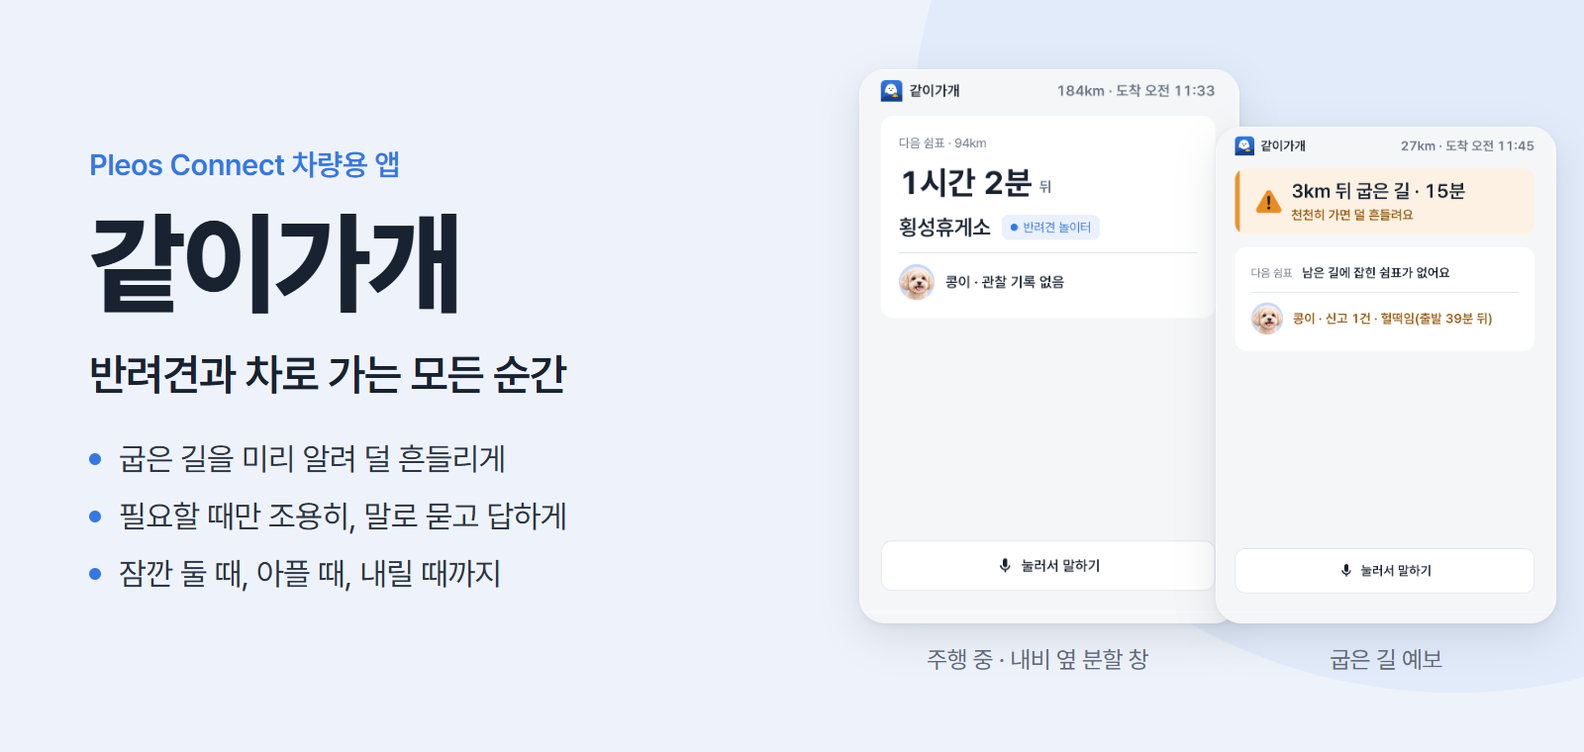
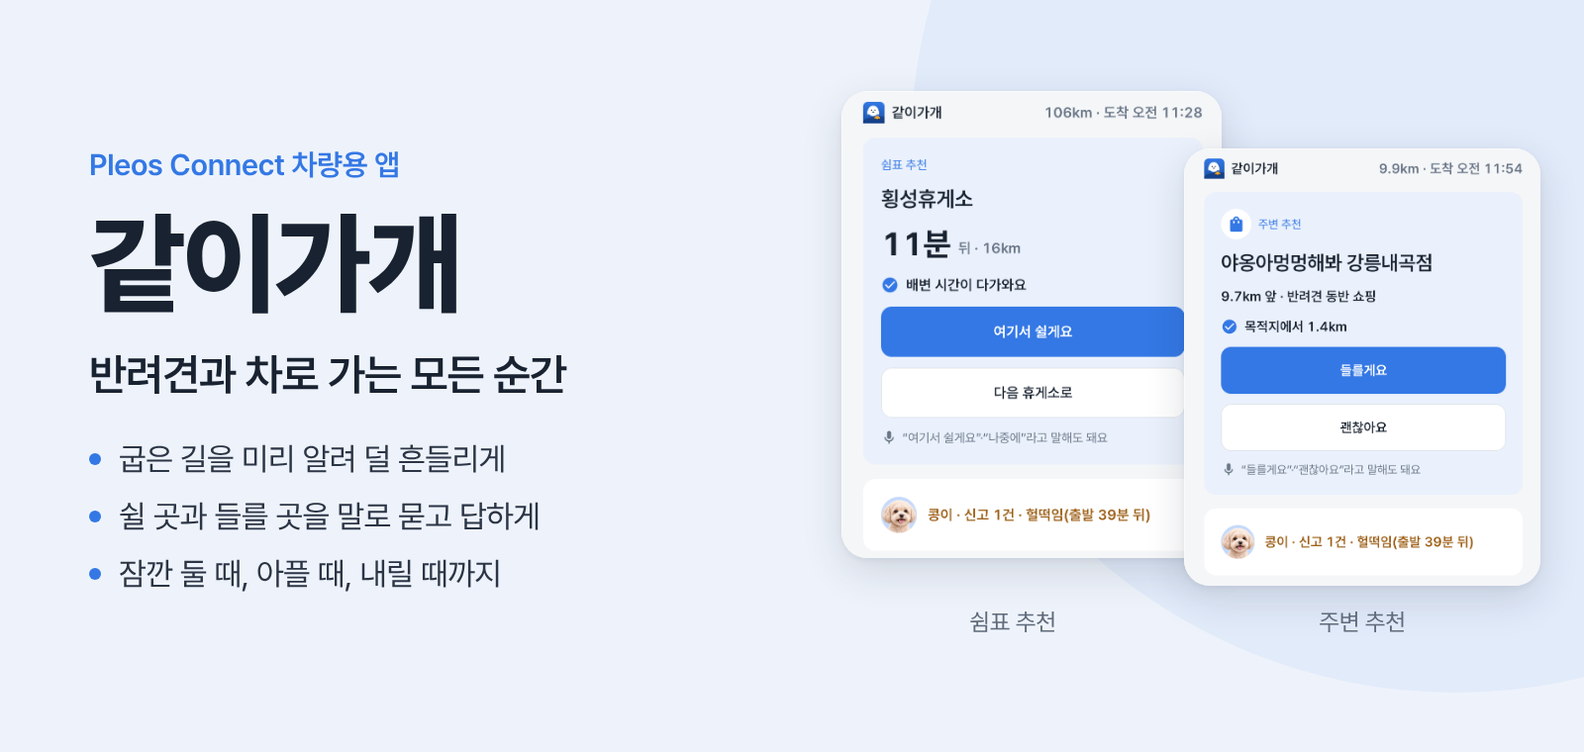
녹화 순서와 진행 기록 정리

diff --git a/scripts/make_banner.py b/scripts/make_banner.py
@@ -1,16 +1,15 @@
 """README 대표 이미지 docs/readme/banner.png 다시 만들기 (2026-11-05).
 
-    server\\.venv\\Scripts\\python scripts/make_banner.py          # docs/readme/drive.png·forecast.png → banner.png
+    server\\.venv\\Scripts\\python scripts/make_banner.py          # docs/readme/suggest.png·nearby.png → banner.png
 
 - 1600×760, 배경 #EEF3FB, 오른쪽 위 연한 원 #E2EBFA, 왼쪽 글(Pretendard, app-android/app/src/main/res/font/),
-  오른쪽에 두 화면(둥근 모서리·옅은 그림자)을 겹쳐 놓고 아래 캡션.
-- 그림 도구(Pillow)를 새로 설치하지 않으려고 HTML을 Playwright(설치된 Chrome)로 찍는다 — Playwright는 server/.venv에 있다.
+  오른쪽에 쉼표 추천과 주변 추천 두 화면(둥근 모서리·옅은 그림자)을 나란히 놓고 아래 캡션.
+- 그림 도구(Pillow)를 새로 설치하지 않으려고 HTML을 Playwright로 찍는다 — Playwright는 server/.venv에 있다.
 - 결과 PNG에는 텍스트·출처 메타데이터 청크를 남기지 않는다(IHDR·IDAT·IEND 등 그림 청크만 다시 쓴다).
 """
 import struct
 import sys
 import tempfile
-import zlib
 from pathlib import Path
 
 ROOT = Path(__file__).resolve().parents[1]
@@ -19,9 +18,9 @@ SRC = ROOT / "docs" / "readme"
 OUT = SRC / "banner.png"
 W, H = 1600, 760
 
-# 화면 두 장: 화면 위쪽만 보여 준다(분할 창 폭 기준 비율). (left, top, width, 보이는 높이)
-DRIVE = (868, 70, 384, 560)
-FORECAST = (1228, 128, 344, 502)
+# 화면 두 장: 카드가 있는 위쪽만 보여 준다(원본 847×1210 중 위 1040px). (left, top, width, 보이는 높이)
+FIRST = (790, 92, 384, 472)    # suggest.png
+SECOND = (1196, 150, 360, 442)  # nearby.png
 
 HTML = """<!doctype html><html><head><meta charset="utf-8"><style>
 @font-face {{ font-family: P; font-weight: 400; src: url('{f}/pretendard_regular.otf'); }}
@@ -37,7 +36,7 @@ ul {{ list-style: none; padding: 0; margin: 40px 0 0 0; }}
 li {{ font-size: 32px; font-weight: 400; color: #2B3545; letter-spacing: -0.5px; margin-bottom: 20px; display: flex; align-items: center; }}
 li::before {{ content: ""; width: 12px; height: 12px; border-radius: 50%; background: #3478E5; margin-right: 18px; flex: none; }}
 .shot {{ position: absolute; border-radius: 26px; overflow: hidden; background: #F5F6F8;
-         box-shadow: 0 14px 40px rgba(24, 34, 48, 0.12), 0 2px 6px rgba(24, 34, 48, 0.06); }}
+         box-shadow: 0 14px 40px rgba(24, 34, 48, 0.14), 0 2px 6px rgba(24, 34, 48, 0.06); }}
 .shot img {{ display: block; width: 100%; }}
 .cap {{ position: absolute; font-size: 24px; font-weight: 400; color: #5F6B7B; text-align: center; letter-spacing: -0.3px; }}
 </style></head><body>
@@ -46,12 +45,12 @@ li::before {{ content: ""; width: 12px; height: 12px; border-radius: 50%; backgr
   <div class="kicker">Pleos Connect 차량용 앱</div>
   <div class="name">같이가개</div>
   <div class="sub">반려견과 차로 가는 모든 순간</div>
-  <ul><li>굽은 길을 미리 알려 덜 흔들리게</li><li>필요할 때만 조용히, 말로 묻고 답하게</li><li>잠깐 둘 때, 아플 때, 내릴 때까지</li></ul>
+  <ul><li>굽은 길을 미리 알려 덜 흔들리게</li><li>쉴 곳과 들를 곳을 말로 묻고 답하게</li><li>잠깐 둘 때, 아플 때, 내릴 때까지</li></ul>
 </div>
-<div class="shot" style="left:{d[0]}px; top:{d[1]}px; width:{d[2]}px; height:{d[3]}px"><img src="{drive}"></div>
-<div class="shot" style="left:{c[0]}px; top:{c[1]}px; width:{c[2]}px; height:{c[3]}px"><img src="{forecast}"></div>
-<div class="cap" style="left:{d[0]}px; width:{dcap}px; top:{capy}px">주행 중 · 내비 옆 분할 창</div>
-<div class="cap" style="left:{c[0]}px; width:{c[2]}px; top:{capy}px">굽은 길 예보</div>
+<div class="shot" style="left:{a[0]}px; top:{a[1]}px; width:{a[2]}px; height:{a[3]}px"><img src="{first}"></div>
+<div class="shot" style="left:{b[0]}px; top:{b[1]}px; width:{b[2]}px; height:{b[3]}px"><img src="{second}"></div>
+<div class="cap" style="left:{a[0]}px; width:{acap}px; top:{capy}px">쉼표 추천</div>
+<div class="cap" style="left:{b[0]}px; width:{b[2]}px; top:{capy}px">주변 추천</div>
 </body></html>"""
 
 
@@ -77,18 +76,23 @@ def main() -> int:
     if len(sys.argv) > 2 and sys.argv[1] == "--out":  # 시험용: 다른 곳에 쓰기
         OUT = Path(sys.argv[2])
 
-    for p in (SRC / "drive.png", SRC / "forecast.png"):
+    first, second = SRC / "suggest.png", SRC / "nearby.png"
+    for p in (first, second):
         if not p.exists():
             print(f"없음: {p}")
             return 2
-    html = HTML.format(f=FONT.as_uri(), W=W, H=H, d=DRIVE, c=FORECAST, dcap=FORECAST[0] - DRIVE[0],
-                       capy=max(DRIVE[1] + DRIVE[3], FORECAST[1] + FORECAST[3]) + 22,
-                       drive=(SRC / "drive.png").as_uri(), forecast=(SRC / "forecast.png").as_uri())
+    html = HTML.format(f=FONT.as_uri(), W=W, H=H, a=FIRST, b=SECOND, acap=SECOND[0] - FIRST[0],
+                       capy=max(FIRST[1] + FIRST[3], SECOND[1] + SECOND[3]) + 22,
+                       first=first.as_uri(), second=second.as_uri())
     with tempfile.TemporaryDirectory() as tmp:
         page_file = Path(tmp) / "banner.html"
         page_file.write_text(html, encoding="utf-8")
         with sync_playwright() as pw:
-            b = pw.chromium.launch(channel="chrome", args=["--allow-file-access-from-files"])
+            args = ["--allow-file-access-from-files"]
+            try:
+                b = pw.chromium.launch(channel="chrome", args=args)
+            except Exception:
+                b = pw.chromium.launch(args=args)
             pg = b.new_page(viewport={"width": W, "height": H}, device_scale_factor=1)
             pg.goto(page_file.as_uri())
             pg.evaluate("document.fonts.ready")

diff --git a/scripts/record_scenes.py b/scripts/record_scenes.py
@@ -180,7 +180,7 @@ def main() -> int:
         print("주의: 서버(:8000) 응답 없음 — 병원 사전 접수·보호자 페이지 장면은 화면만 찍힌다")
     guiding = nav_guiding()
     if not guiding:
-        msg = ("기본 내비가 안내 중이 아니다. 분할 창 장면(3·4·7·9)과 내비 전체 화면 장면(2)은 기본 내비가 실제 길 안내 화면이어야 한다(v10-1: 회전 카드는 같이가개에서 뺐다).\n"
+        msg = ("기본 내비가 안내 중이 아니다. 분할 창 장면(3·4·9)과 내비 전체 화면 장면(2)은 기본 내비가 실제 길 안내 화면이어야 한다(v10-1: 회전 카드는 같이가개에서 뺐다).\n"
                "  1) 기본 내비 → \"어디로 갈까요?\" → 최근 목록 '강릉씨티호텔' 오른쪽 화살표(바로 안내)\n"
                "  2) 아래 카드에 \"안내 종료\"가 보이면 안내 중")
         if a.no_wait:

diff --git a/docs/PROGRESS.md b/docs/PROGRESS.md
@@ -10,11 +10,12 @@
 - **버그 고침 (캡처 중 발견)**: 설정 스위치(음성으로 제안·움직임 줄이기)를 눌러도 설정 화면을 다시 열 때까지 그대로 보였다 — `MainViewModel.bump()`가 같은 값 `copy()`라 StateFlow가 버림. `AppState.settingsRev`를 늘리게 고침, `SettingsRevTest`(V10-05). 화면 모양은 그대로.
 - **스토어 스크린샷**: 01-depart(칩)·02-drive-split(기본 내비 안내 중 분할)·03-forecast(같은 분할)·04-suggest(버튼 상태, 앱 영역 가운데) 다시, 05~08은 v10 그대로.
 - **B 대표 이미지**: `scripts/make_banner.py`(HTML + Pretendard를 Playwright·설치된 Chrome으로 찍음 — Pillow를 새로 설치하지 않으려고, PNG는 그림 청크만 남김)로 새 drive·forecast를 넣어 `docs/readme/banner.png` 1600×760 다시 만듦. 옛 배너의 C2PA 청크도 함께 없어짐(저장소 바이너리 도구 이름 검색 0).
-- **C 시연 대본·녹화**: `docs/demo_script.md` 맨 앞 "3분 시연 흐름 (v10)" 표(장면 10 + 닫는 자막, 180초, 조작·화면·자막 25자 이하·내레이션 4~5음절/초), 옛 PT 3장면 표는 `<details>`로. `docs/recording.md` 0장 순서·2장 표를 같은 표로. "주행 자극은 차량 흔들림 기준 · 반려견 측정 아님"(28자)은 화면 아래 고정 2줄. `scripts/record_scenes.py` 장면을 v10 순서 10개로(녹화 전 force-stop, `captureClean`, 폰 PIP 3개 모두 390×844, 기록 페이지는 스크롤). 녹화 실행은 A와 같은 이유로 대기.
+- **C 시연 대본·녹화**: `docs/demo_script.md` 맨 앞 "3분 시연 흐름 (v10)" 표(장면 10 + 닫는 자막, 180초, 조작·화면·자막 25자 이하·내레이션 4~5음절/초), 옛 PT 3장면 표는 `<details>`로. `docs/recording.md` 0장 순서·2장 표를 같은 표로. "주행 자극은 차량 흔들림 기준 · 반려견 측정 아님"(28자)은 화면 아래 고정 2줄. `scripts/record_scenes.py` 장면을 v10 순서 10개로(녹화 전 force-stop, `captureClean`, 폰 PIP 3개 모두 390×844, 기록 페이지는 스크롤). **녹화** `artifacts/recording/2026-11-05/` 기기 mp4 10개 400초(6분 40초, 점프 대기 포함 — 편집에서 180초로) + 폰 Playwright webm 3개(05b 보호자 대기·07b 병원 접수함·10b 기록 페이지) + index.md. 스크립트 고침: 녹화 끝에 `screenrecord`가 끝날 때까지 기다리고 pull 3번 재시도(02·03 파일 없음), 버튼은 글자 정확히 일치로 찾기(7에서 제목 "…동물병원으로 안내할게요"를 눌러 접수가 안 감), 7은 전체 창이고 9 뒤에 찍는다(파일 번호는 영상 순서) — [동물병원으로]가 기본 내비 목적지를 병원으로 바꿔 안내가 끝나고 주변 추천도 멈춤. 사용자가 안내를 다시 건 뒤 2·3·9를 다시 찍음. 녹화 중 최저 남은 메모리 6.28GB.
 - **D 돌봄 카드 초안**: heatstroke = 검수 카드 문구 "시원한 물로 몸을 적셔요(물에 담그지는 않아요)"로 통일(머리 이야기 뺌), foreign_object = triggers의 양말·뼈 삭제·"삼킨 것" 추가, 본문 "삼킨 것과 삼킨 시각", wait_heat 그대로, barking 보류(false). 나머지 10장 대조표 `_private/care_review_drafts.md`(페이지 12개 모두 열림) — 그대로 6 · 1문장 수정 3(potty_signal·senior·arrival_rest) · 2문장 수정 1(reststop_walk), 10장 합계 일치 25 / 부분 9 / 근거 없음 1. `reviewed`는 모두 그대로 false. content/care/README.md 초안 표 빈틈 열에 결정 반영.
-- **E 점검(진행 중)**: `./gradlew test` 종료 0, 고유 **앱 382 → 383**(설정 스위치 고침 V10-05 뒤, 릴리스 변형 단위 테스트 포함 실패 0), pytest **102 passed**. 릴리스 assets(`mergeReleaseAssets`·`compressReleaseAssets`, 서명 없이): 카드 12장, `_drafts`·`_candidates` 0, 내장 장소 327·병원 5,063(샘플 0). 리허설 기본 3회 연속(앱 재시작 없이) 76·73·75초 모두 OK, `--all` 13장면 224초 OK, `--jumps 20` 102초 OK → docs/qa_report.md 맨 위 표. 숫자 맞추기: qa_report(369·88)·release_notes(353·82, --all 9장면)를 383·102·13장면으로, README 리허설 "70초 안팎" → "75초 안팎".
-- 문구 검사: 반려견 상태 뜻 "진단"은 코드 주석·옛 디자인 문서 4곳("멀미 민감도 진단")뿐 → "흔들림에 예민한 정도(보호자 응답)". 나머지 "정상"(대관령 정상·영업/정상·[N] 정상 표기), "측정"(차량·시간 측정), "감지"(wording 금지 목록)는 반려견 상태 뜻이 아님. 【 】 0(README TODO 11/13 두 개는 HTML 주석). "claude"·"anthropic": 텍스트는 .gitignore·.dockerignore 무시 규칙뿐(PROGRESS 옛 기록 3곳의 도구 이름은 지움), 바이너리는 `docs/readme/banner.png`(C2PA) — B에서 새로 만들면 없어진다. 이메일은 Pleos 공개 문의 주소 1개(BLOCKED.md), 전화번호 형태는 테스트 CSV의 인허가 관리번호뿐.
-- 커밋: `_private/COMMIT_COMMANDS.md` 24번~.
+- **E 점검**: `./gradlew test` 종료 0, 고유 **앱 382 → 383**(설정 스위치 고침 V10-05 뒤, 릴리스 변형 단위 테스트 포함 실패 0), pytest **102 passed**. 릴리스 assets(`mergeReleaseAssets`·`compressReleaseAssets`, 서명 없이): 카드 12장, `_drafts`·`_candidates` 0, 내장 장소 327·병원 5,063(샘플 0). 리허설 기본 3회 연속(앱 재시작 없이) 76·73·75초 모두 OK, `--all` 13장면 224초 OK, `--jumps 20` 102초 OK → docs/qa_report.md 맨 위 표. 숫자 맞추기: qa_report(369·88)·release_notes(353·82, --all 9장면)를 383·102·13장면으로, README 리허설 "70초 안팎" → "75초 안팎".
+- 문구 검사: 반려견 상태 뜻 "진단"은 코드 주석·옛 디자인 문서 4곳("멀미 민감도 진단")뿐 → "흔들림에 예민한 정도(보호자 응답)". 나머지 "정상"(대관령 정상·영업/정상·[N] 정상 표기), "측정"(차량·시간 측정), "감지"(wording 금지 목록)는 반려견 상태 뜻이 아님. 【 】 0(README TODO 11/13 두 개는 HTML 주석). "claude"·"anthropic": 텍스트는 .gitignore·.dockerignore 무시 규칙뿐(PROGRESS 옛 기록 3곳의 도구 이름은 지움), 바이너리는 `docs/readme/banner.png`(C2PA)뿐 — 12:20에 이 작업 밖에서 banner.png(쉼표·주변 추천 두 장)와 make_banner.py가 바뀌었고 새 파일에 다시 C2PA `caBX` 청크가 있어 그 청크만 뺐다(픽셀 같음 확인, 그림 내용은 그대로) → 저장소 그림 도구 이름·C2PA 0. 이메일은 Pleos 공개 문의 주소 1개(BLOCKED.md), 전화번호 형태는 테스트 CSV의 인허가 관리번호뿐.
+- 마무리: 에뮬레이터 시연 상태 되돌림(디버그로 넣은 둘째 반려견 보리 삭제 = onboard reset → done, 음성으로 제안 켜짐, captureClean 끔), 기본 내비 안내 종료, `demo_check.ps1 -Stop`(Gradle·서버·에뮬레이터·DB 정리), 남은 메모리 11.0GB.
+- 커밋: `_private/COMMIT_COMMANDS.md` 24~33번.
 
 ## 원형 반려견 사진 가장자리 (2026-11-04, 사용자 지시)
 - **원인**: `pet_kongi_avatar.png`(272×271)는 그림 안에 원이 그려져 있고 원 테두리 픽셀이 반투명(짧은 변 기준 원 안 2,091px). `PetPhoto`가 이 그림을 그대로 원형으로 잘라, 가장자리에 뒤 면 색이 비쳤다(다크면 검은 띠, 라이트면 들쭉날쭉한 흰 테). 같은 부품이라 출발·주행·도착·도착 요약·프로필·온보딩·탄 아이 칩 모두 같은 문제였고, 도착 요약(160dp)에서 가장 크게 보였다.

diff --git a/docs/recording.md b/docs/recording.md
@@ -71,7 +71,7 @@ ffmpeg -i scene1.mp4 -vf "crop=iw*1682/2560:ih*1210/1440:iw*853/2560:ih*90/1440"
 | 4 | 0:55–1:15 | `--ei seek 4620` (약 40초 기다림 — **편집에서 잘라냄**) → "응"(`--es say 응`) | 맨 위 한 장 "쉼표 추천 · 횡성휴게소", 이유 첫 줄 "배변 시간이 다가와요" → "경로에 추가했어요" | 배변 시간에 맞춰 놀이터 휴게소로 | 지난 배변 시각과 운전 시간을 보고, 반려견 놀이터가 있는 휴게소를 먼저 권합니다. "응" 한마디면 경유지로 들어갑니다. |
 | 5 | 1:15–1:40 | `--ei seek 5240` (5,252초 운전석 문) → `--ei seek 5540 --es say '잠깐 다녀올게'` → [대기 종료하기] | 휴게소 쉼표 → 운전석 문이 열리면 대기 모드 제안 한 줄 → 잠깐 대기 화면(큰 글 "주인이 곧 돌아와요" · 실내 온도) + **보호자 폰 PIP**(대기 페이지) → [대기 종료하기] | 문을 열면 잠깐 대기를 권해요 | 운전석 문이 열리면 잠깐 대기를 권합니다. 차 화면은 바깥 사람에게 보이는 안내판이 되고, 보호자 폰엔 경과 시간과 실내 온도가 뜹니다. 위치는 보내지 않아요. |
 | 6 | 1:40–1:50 | `--ei seek 5300 --es ask '쉬할 데 있어?'` → [경유지로 넣기] | 콩이 도우미 정차 화면: 답 "쉬할 곳 — 평창휴게소 · 반려견 놀이터" + [경유지로 넣기] | 멈춰 있을 땐 콩이 도우미에게 | 멈춰 있을 땐 콩이 도우미에게 물어보세요. 앞길 놀이터 휴게소를 찾아 바로 경유지로 넣습니다. |
-| 7 | 1:50–2:15 | `--ei seek 2460 --ei cabin 24` → 분할 창 → `--es ask '콩이가 초콜릿 먹은 것 같아'` → [동물병원으로] → 질문이 끝난 뒤 `--es say 네` | 맨 위 응급 안내 한 장(가까운 동물병원) + [동물병원으로] → 음성 "시연용 제휴 동물병원에 증상과 도착 예정을 보낼까요?" → "병원 사전 접수 보냄" + **병원 접수함 PIP**("시연용 접수함", 도착 예정 · [도착하면 바로 볼게요]) → 차 화면 "병원: 도착하면 바로 봐요" | 위급하면 병원이 먼저 알게 | 위험한 말이 들리면 다른 답보다 응급 안내가 먼저입니다. 네라고 하면 시연용 제휴 병원에 증상과 도착 예정을 미리 보내고, 병원 답이 차로 돌아옵니다. |
+| 7 | 1:50–2:15 | `--ei seek 2460 --ei cabin 24` → 전체 창 → `--es ask '콩이가 초콜릿 먹은 것 같아'` → [동물병원으로] → 질문이 끝난 뒤 `--es say 네` | 맨 위 응급 안내 한 장(가까운 동물병원) + [동물병원으로] → 음성 "시연용 제휴 동물병원에 증상과 도착 예정을 보낼까요?" → "병원 사전 접수 보냄" + **병원 접수함 PIP**("시연용 접수함", 도착 예정 · [도착하면 바로 볼게요]) → 차 화면 "병원: 도착하면 바로 봐요" | 위급하면 병원이 먼저 알게 | 위험한 말이 들리면 다른 답보다 응급 안내가 먼저입니다. 네라고 하면 시연용 제휴 병원에 증상과 도착 예정을 미리 보내고, 병원 답이 차로 돌아옵니다. |
 | 8 | 2:15–2:30 | (전체 창) `--ei seek 5240` → [주행 자극 보기] → `--ei seek 0 --es action pause` → `--ez compare true` | 흔들림 그래프(정차 중만, 엔진 값) → 고갯길 비교 "안내 없이 55 · 안내대로 30" | 안내대로 가면 흔들림이 줄어요 / (아래 고정 2줄) 주행 자극은 차량 흔들림 기준 · 반려견 측정 아님 | 정차하면 흔들림 그래프를 볼 수 있습니다. 실제 대관령 옛길에서 안내대로 가면 7분 더 걸리고 흔들림은 45퍼센트 줄어요. |
 | 9 | 2:30–2:40 | `--ei seek 10040` (약 30초 기다림 — 편집에서 잘라냄) → 분할 창 | 맨 위 한 장 주변 추천 "야옹아멍멍해봐 강릉내곡점"(반려동물 동반 쇼핑, TourAPI) + [들를게요][괜찮아요] | 목적지 앞, 같이 들를 곳 하나 | 목적지가 가까워지면 일반 도로에서만, 반려견과 같이 들를 곳을 하나 권합니다. |
 | 10 | 2:40–2:55 | (전체 창) `--ei seek 10843` → `--es door rear` → [내렸어요] → [폰으로 기록 받기] | "콩이 내렸나요?" → 도착 요약(수치 4칸 · 사진) → QR + **기록 페이지 PIP**(폰 390×844) | 뒷문이 열리면, 내렸는지 한 번 더 | 뒷문이 열리면 콩이가 내렸는지 한 번 더 묻습니다. 오늘 이동 기록은 QR로 폰에 받아 갑니다. |
@@ -81,7 +81,7 @@ ffmpeg -i scene1.mp4 -vf "crop=iw*1682/2560:ih*1210/1440:iw*853/2560:ih*90/1440"
 - 출처 줄(© OpenStreetMap contributors · 한국관광공사)은 자막이 아니라 화면 맨 아래 작은 고정 글이다.
 - "주행 자극은 차량 흔들림 기준 · 반려견 측정 아님"은 28자라 자막 한 줄(25자)을 넘는다 → 화면 아래 **고정 2줄**("주행 자극은 차량 흔들림 기준" / "반려견 측정 아님")로 장면 2·8·닫는 장면에 넣는다.
 - PIP 3개는 `record_scenes.py`가 같이 찍는 Playwright 영상(390×844): 보호자 대기 페이지(장면 5), 병원 접수함(장면 7), 기록 페이지(장면 10).
-- 분할 창 장면(3·4·7·9)은 기본 내비가 **안내 중**이어야 한다(아래 recording.md "기본 내비 안내 걸기"). 정차 장면(5·6·8·10)은 전체 창.
+- 분할 창 장면(3·4·9)은 기본 내비가 **안내 중**이어야 한다(아래 recording.md "기본 내비 안내 걸기"). 7(주행 중 응급)은 전체 창 — [동물병원으로]가 기본 내비 목적지를 병원으로 바꿔 안내가 끝나므로 녹화 스크립트는 9 뒤에 찍는다(파일 번호는 영상 순서). 정차 장면(5·6·8·10)은 전체 창.
 
 ## 3. 소리
 - 앱 TTS(제안·예보)는 화면 녹화에 들어가지 않는다. 노트북 스피커 출력을 함께 담으려면 OBS로 에뮬레이터 창 + 시스템 소리를 녹화하거나, 편집에서 내레이션을 입힌다.

diff --git a/docs/demo_script.md b/docs/demo_script.md
@@ -17,7 +17,7 @@
 | 4 | 0:55–1:15 | `--ei seek 4620` (약 40초 기다림 — **편집에서 잘라냄**) → "응"(`--es say 응`) | 맨 위 한 장 "쉼표 추천 · 횡성휴게소", 이유 첫 줄 "배변 시간이 다가와요" → "경로에 추가했어요" | 배변 시간에 맞춰 놀이터 휴게소로 | 지난 배변 시각과 운전 시간을 보고, 반려견 놀이터가 있는 휴게소를 먼저 권합니다. "응" 한마디면 경유지로 들어갑니다. |
 | 5 | 1:15–1:40 | `--ei seek 5240` (5,252초 운전석 문) → `--ei seek 5540 --es say '잠깐 다녀올게'` → [대기 종료하기] | 휴게소 쉼표 → 운전석 문이 열리면 대기 모드 제안 한 줄 → 잠깐 대기 화면(큰 글 "주인이 곧 돌아와요" · 실내 온도) + **보호자 폰 PIP**(대기 페이지) → [대기 종료하기] | 문을 열면 잠깐 대기를 권해요 | 운전석 문이 열리면 잠깐 대기를 권합니다. 차 화면은 바깥 사람에게 보이는 안내판이 되고, 보호자 폰엔 경과 시간과 실내 온도가 뜹니다. 위치는 보내지 않아요. |
 | 6 | 1:40–1:50 | `--ei seek 5300 --es ask '쉬할 데 있어?'` → [경유지로 넣기] | 콩이 도우미 정차 화면: 답 "쉬할 곳 — 평창휴게소 · 반려견 놀이터" + [경유지로 넣기] | 멈춰 있을 땐 콩이 도우미에게 | 멈춰 있을 땐 콩이 도우미에게 물어보세요. 앞길 놀이터 휴게소를 찾아 바로 경유지로 넣습니다. |
-| 7 | 1:50–2:15 | `--ei seek 2460 --ei cabin 24` → 분할 창 → `--es ask '콩이가 초콜릿 먹은 것 같아'` → [동물병원으로] → 질문이 끝난 뒤 `--es say 네` | 맨 위 응급 안내 한 장(가까운 동물병원) + [동물병원으로] → 음성 "시연용 제휴 동물병원에 증상과 도착 예정을 보낼까요?" → "병원 사전 접수 보냄" + **병원 접수함 PIP**("시연용 접수함", 도착 예정 · [도착하면 바로 볼게요]) → 차 화면 "병원: 도착하면 바로 봐요" | 위급하면 병원이 먼저 알게 | 위험한 말이 들리면 다른 답보다 응급 안내가 먼저입니다. 네라고 하면 시연용 제휴 병원에 증상과 도착 예정을 미리 보내고, 병원 답이 차로 돌아옵니다. |
+| 7 | 1:50–2:15 | `--ei seek 2460 --ei cabin 24` → 전체 창 → `--es ask '콩이가 초콜릿 먹은 것 같아'` → [동물병원으로] → 질문이 끝난 뒤 `--es say 네` | 맨 위 응급 안내 한 장(가까운 동물병원) + [동물병원으로] → 음성 "시연용 제휴 동물병원에 증상과 도착 예정을 보낼까요?" → "병원 사전 접수 보냄" + **병원 접수함 PIP**("시연용 접수함", 도착 예정 · [도착하면 바로 볼게요]) → 차 화면 "병원: 도착하면 바로 봐요" | 위급하면 병원이 먼저 알게 | 위험한 말이 들리면 다른 답보다 응급 안내가 먼저입니다. 네라고 하면 시연용 제휴 병원에 증상과 도착 예정을 미리 보내고, 병원 답이 차로 돌아옵니다. |
 | 8 | 2:15–2:30 | (전체 창) `--ei seek 5240` → [주행 자극 보기] → `--ei seek 0 --es action pause` → `--ez compare true` | 흔들림 그래프(정차 중만, 엔진 값) → 고갯길 비교 "안내 없이 55 · 안내대로 30" | 안내대로 가면 흔들림이 줄어요 / (아래 고정 2줄) 주행 자극은 차량 흔들림 기준 · 반려견 측정 아님 | 정차하면 흔들림 그래프를 볼 수 있습니다. 실제 대관령 옛길에서 안내대로 가면 7분 더 걸리고 흔들림은 45퍼센트 줄어요. |
 | 9 | 2:30–2:40 | `--ei seek 10040` (약 30초 기다림 — 편집에서 잘라냄) → 분할 창 | 맨 위 한 장 주변 추천 "야옹아멍멍해봐 강릉내곡점"(반려동물 동반 쇼핑, TourAPI) + [들를게요][괜찮아요] | 목적지 앞, 같이 들를 곳 하나 | 목적지가 가까워지면 일반 도로에서만, 반려견과 같이 들를 곳을 하나 권합니다. |
 | 10 | 2:40–2:55 | (전체 창) `--ei seek 10843` → `--es door rear` → [내렸어요] → [폰으로 기록 받기] | "콩이 내렸나요?" → 도착 요약(수치 4칸 · 사진) → QR + **기록 페이지 PIP**(폰 390×844) | 뒷문이 열리면, 내렸는지 한 번 더 | 뒷문이 열리면 콩이가 내렸는지 한 번 더 묻습니다. 오늘 이동 기록은 QR로 폰에 받아 갑니다. |
@@ -27,7 +27,7 @@
 - 출처 줄(© OpenStreetMap contributors · 한국관광공사)은 자막이 아니라 화면 맨 아래 작은 고정 글이다.
 - "주행 자극은 차량 흔들림 기준 · 반려견 측정 아님"은 28자라 자막 한 줄(25자)을 넘는다 → 화면 아래 **고정 2줄**("주행 자극은 차량 흔들림 기준" / "반려견 측정 아님")로 장면 2·8·닫는 장면에 넣는다.
 - PIP 3개는 `record_scenes.py`가 같이 찍는 Playwright 영상(390×844): 보호자 대기 페이지(장면 5), 병원 접수함(장면 7), 기록 페이지(장면 10).
-- 분할 창 장면(3·4·7·9)은 기본 내비가 **안내 중**이어야 한다(아래 recording.md "기본 내비 안내 걸기"). 정차 장면(5·6·8·10)은 전체 창.
+- 분할 창 장면(3·4·9)은 기본 내비가 **안내 중**이어야 한다(아래 recording.md "기본 내비 안내 걸기"). 7(주행 중 응급)은 전체 창 — [동물병원으로]가 기본 내비 목적지를 병원으로 바꿔 안내가 끝나므로 녹화 스크립트는 9 뒤에 찍는다(파일 번호는 영상 순서). 정차 장면(5·6·8·10)은 전체 창.
 
 <details>
 <summary>이전 PT 3장면 대본 (v10 전 화면 기준)</summary>
